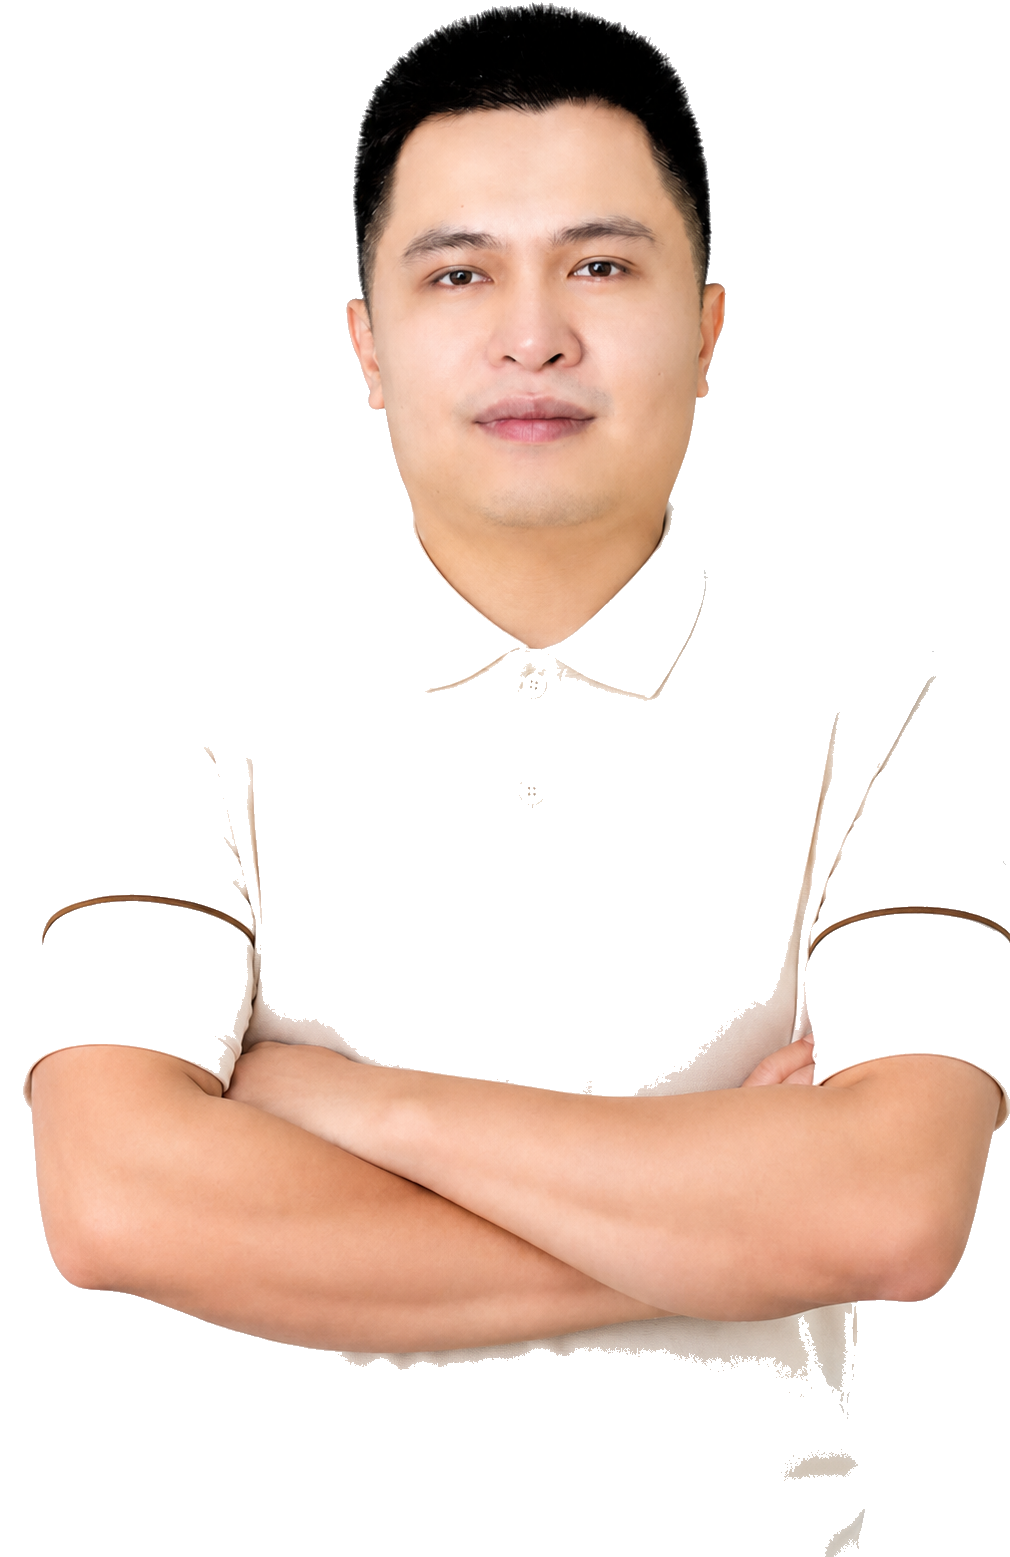
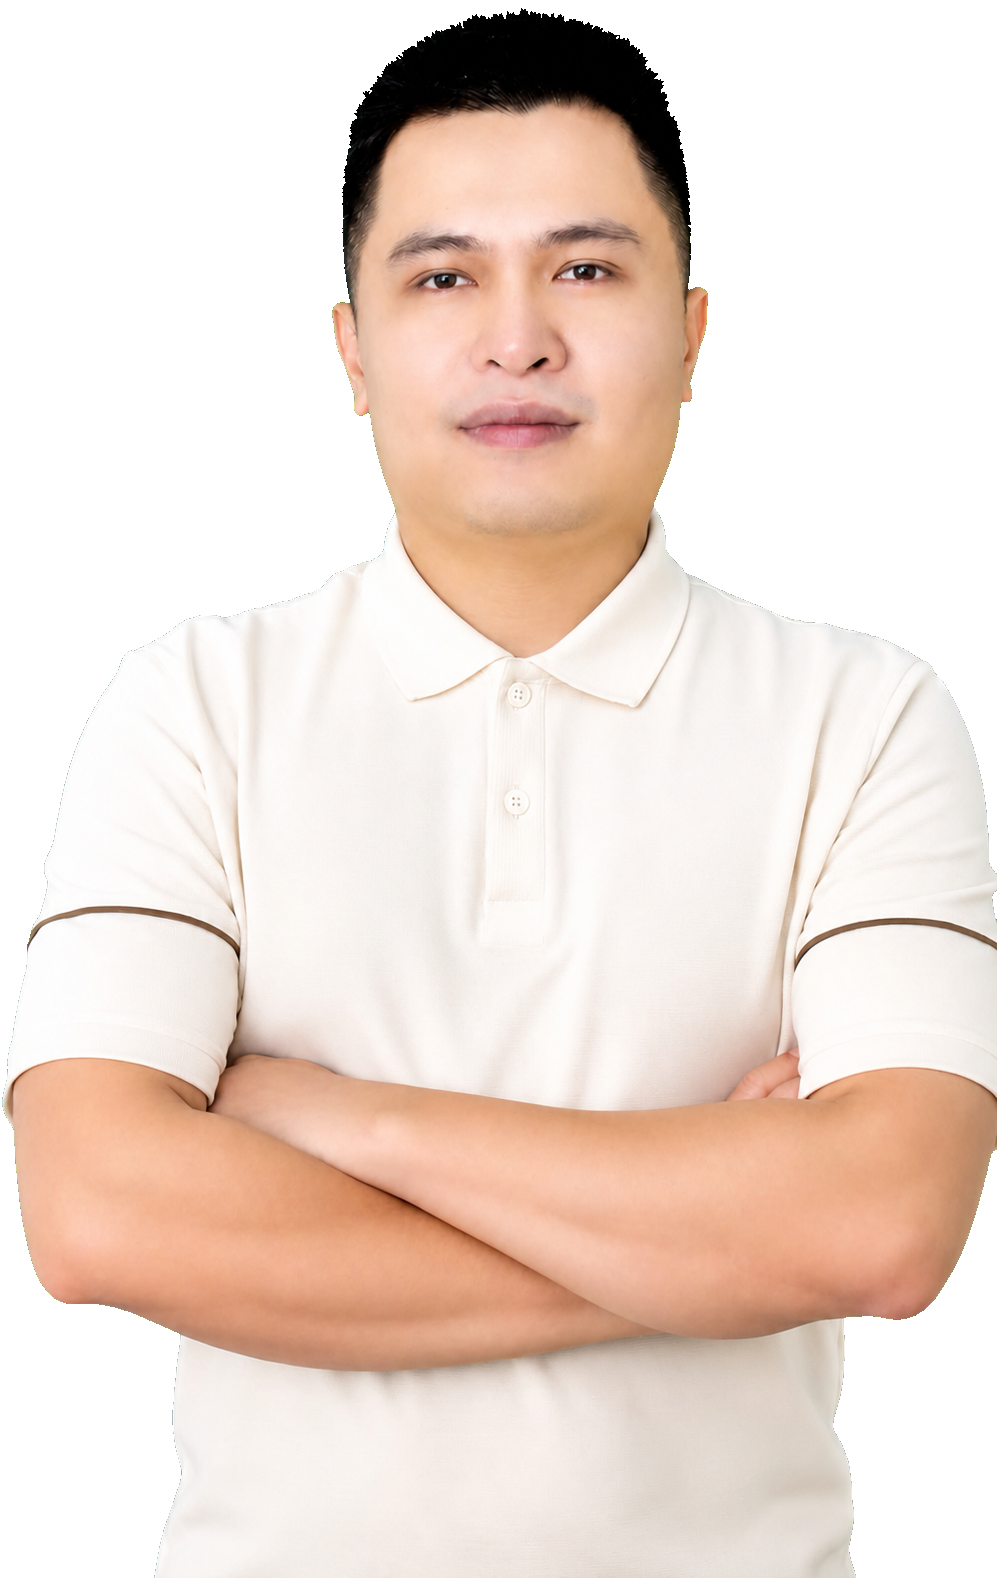
Update website

diff --git a/app/video-ai-course/page.tsx b/app/video-ai-course/page.tsx
@@ -266,9 +266,8 @@ function HeroGraphic() {
           fill
           priority
           sizes="(max-width: 640px) 280px, (max-width: 1024px) 360px, 400px"
-          className="object-contain object-bottom mix-blend-normal drop-shadow-[0_0_42px_rgba(59,130,246,.46)]"
+          className="object-contain object-bottom"
         />
-        <div className="absolute inset-0 bg-gradient-to-t from-[#07111F] via-transparent to-transparent" />
       </div>
 
       <div className="absolute bottom-[19%] left-[13%] z-30 hidden rounded-[1.2rem] border border-sky-400/30 bg-black/55 p-3 shadow-[0_0_35px_rgba(59,130,246,.28)] backdrop-blur-md sm:block">
@@ -1317,32 +1316,8 @@ function MentorSection() {
         <div className="absolute left-0 top-0 h-full w-1/3 bg-gradient-to-r from-blue-950/25 to-transparent" />
         <div className="absolute -left-24 top-24 h-80 w-80 rounded-full bg-blue-500/16 blur-[90px]" />
 
-        <div className="relative grid gap-0 lg:grid-cols-[.82fr_1.18fr]">
-          <div className="animate-[mentorLeft_.85s_ease_both] p-5 sm:p-7 lg:p-0">
-            <div className="relative min-h-[520px] overflow-hidden rounded-[1.45rem] border border-sky-300/20 bg-gradient-to-br from-[#0B1728] via-[#0F1F33] to-[#07111F] shadow-[0_0_55px_rgba(37,99,235,.18)] lg:h-full lg:rounded-r-none">
-              <div className="absolute inset-0 bg-[radial-gradient(circle_at_50%_28%,rgba(59,130,246,.24),transparent_28%),radial-gradient(circle_at_50%_64%,rgba(37,99,235,.22),transparent_36%)]" />
-              <div className="absolute left-1/2 top-12 h-72 w-72 -translate-x-1/2 rounded-full border border-sky-300/18 bg-gradient-to-b from-sky-500/10 to-transparent shadow-[0_0_80px_rgba(59,130,246,.22)]" />
-              <div className="absolute bottom-0 left-1/2 h-72 w-[92%] -translate-x-1/2 rounded-t-full bg-gradient-to-t from-blue-600/24 to-transparent blur-2xl" />
-              <Image
-                src="/images/video-ai-course-mentor-section-cutout-hair-soft.png"
-                alt="Trung AI"
-                fill
-                sizes="(max-width: 1024px) 100vw, 420px"
-                className="object-contain object-bottom -translate-y-8 scale-[1.12] drop-shadow-[0_0_36px_rgba(59,130,246,.32)] sm:-translate-y-10 lg:-translate-y-12 lg:scale-[1.18]"
-              />
-              <div className="absolute inset-0 bg-gradient-to-t from-black/82 via-transparent to-transparent" />
-              <div className="absolute left-5 top-5 rounded-full border border-cyan-300/20 bg-black/70 px-4 py-2 text-xs font-black text-white backdrop-blur-md">
-                <span className="mr-2 inline-block h-2 w-2 rounded-full bg-cyan-400" />
-                Đang xây dựng hệ sinh thái AI thực chiến
-              </div>
-              <div className="absolute bottom-5 left-5 right-5 rounded-2xl border border-white/10 bg-black/72 p-5 backdrop-blur-md">
-                <h3 className="text-xl font-black text-white">Trung AI</h3>
-                <p className="mt-1 text-sm leading-6 text-slate-200">Người làm MMO thực chiến • AI Content • Affiliate</p>
-              </div>
-            </div>
-          </div>
-
-          <div className="animate-[mentorRight_.85s_.06s_ease_both] px-5 pb-8 pt-2 sm:px-8 sm:pb-10 lg:px-10 lg:py-12">
+        <div className="relative animate-[mentorRight_.85s_.06s_ease_both] px-5 py-9 sm:px-8 sm:py-11 lg:px-12 lg:py-14">
+          <div className="max-w-5xl">
             <p className="text-[11px] font-black uppercase tracking-[0.34em] text-blue-400 sm:text-xs">• NGƯỜI CHIA SẺ THỰC CHIẾN</p>
             <h2 className="mt-4 max-w-3xl text-3xl font-black leading-tight tracking-[-.045em] text-white sm:text-5xl">
               Học Video AI cùng người <span className="bg-gradient-to-r from-blue-500 via-sky-400 to-cyan-200 bg-clip-text text-transparent">đang làm thực tế</span> mỗi ngày
@@ -1390,10 +1365,6 @@ function MentorSection() {
       </div>
 
       <style jsx global>{`
-        @keyframes mentorLeft {
-          from { opacity: 0; transform: translateX(-24px); }
-          to { opacity: 1; transform: translateX(0); }
-        }
         @keyframes mentorRight {
           from { opacity: 0; transform: translateX(24px); }
           to { opacity: 1; transform: translateX(0); }
